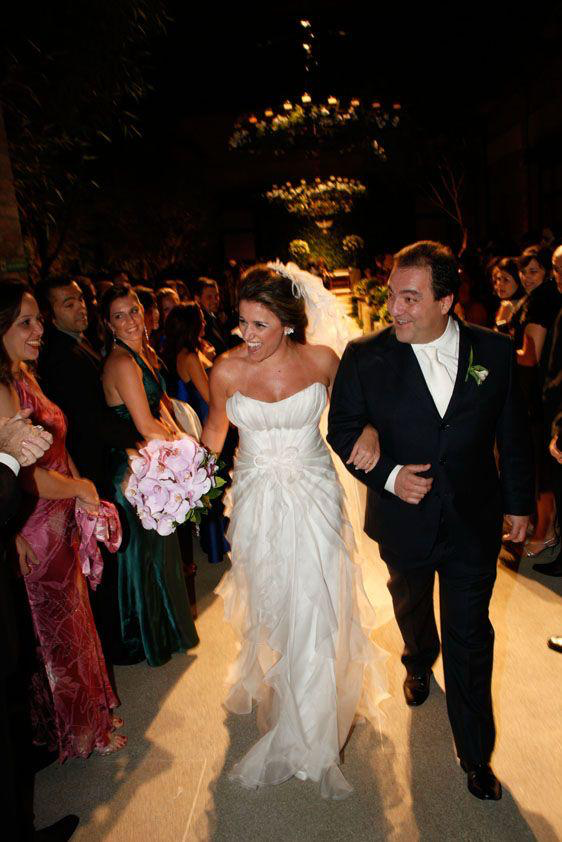
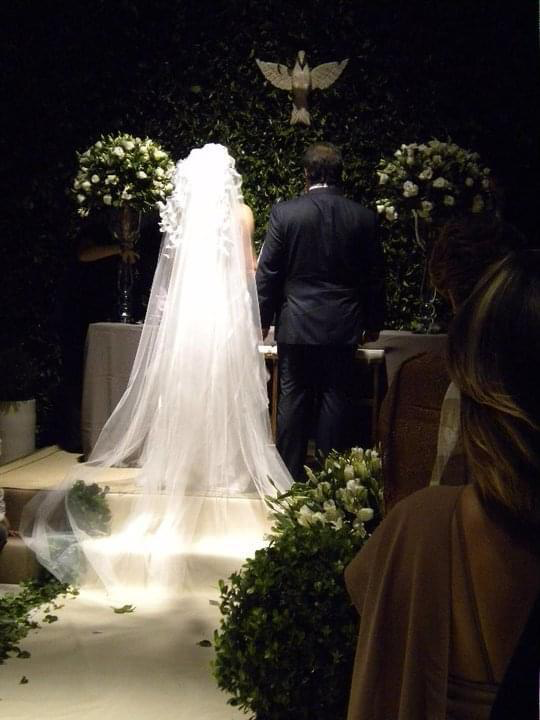
kkk

diff --git a/src/app/pages/alta-costura/artcouture-wearers.data.ts b/src/app/pages/alta-costura/artcouture-wearers.data.ts
@@ -98,6 +98,12 @@ export const ARTCOUTURE_WEARERS: ArtCoutureWearer[] = withCdnUrls([
         src: `${MEDIA}/sandra-machado-leis/familia.png`,
         alt: 'Sandra Machado Leis com a família nas bodas de ouro, vestido ArtCouture',
       },
+    ],
+  },
+  {
+    id: 'sandra-machado-leis-ombre',
+    name: 'Sandra Machado Leis',
+    shots: [
       {
         src: `${MEDIA}/sandra-machado-leis/ombro.png`,
         alt: 'Sandra Machado Leis, vestido ArtCouture ombré coral de um ombro só',
@@ -191,6 +197,10 @@ export const ARTCOUTURE_WEARERS: ArtCoutureWearer[] = withCdnUrls([
         alt: 'Ju Erhardt em três quartos, vestido ArtCouture off-white de babados',
       },
       {
+        src: `${MEDIA}/dra-tatianne/ju-cerimonia.png`,
+        alt: 'Ju Erhardt na cerimônia na igreja, vestido ArtCouture off-white de babados',
+      },
+      {
         src: `${MEDIA}/dra-tatianne/ju-costas.png`,
         alt: 'Ju Erhardt de costas, vestido ArtCouture off-white de babados',
       },
@@ -274,7 +284,7 @@ export const ARTCOUTURE_WEARERS: ArtCoutureWearer[] = withCdnUrls([
     shots: [
       {
         src: `${MEDIA}/isabella-marar-santoyo/01.png`,
-        alt: 'Isabella Marar Santoyo no corredor, vestido de noiva ArtCouture',
+        alt: 'Isabella Marar Santoyo de costas no altar, véu de noiva ArtCouture na cerimônia',
       },
       {
         src: `${MEDIA}/isabella-marar-santoyo/02.png`,

diff --git a/src/app/pages/landing/landing.scss b/src/app/pages/landing/landing.scss
@@ -24,22 +24,42 @@
   align-items: center;
   justify-content: center;
   text-align: center;
-  padding: 24px var(--lc-space-24);
+  padding: clamp(56px, 14vh, 88px) var(--lc-space-24) var(--lc-space-24);
   color: var(--lc-void);
-  background: rgb(255 255 255 / 22%);
+  background: none;
+
+  .hero__eyebrow,
+  .hero__title,
+  .hero__sub,
+  .hero__tag {
+    text-shadow:
+      0 0 18px rgb(255 255 255 / 95%),
+      0 0 36px rgb(255 255 255 / 85%),
+      0 0 56px rgb(255 255 255 / 65%),
+      0 1px 1px rgb(255 255 255 / 90%);
+  }
 }
 
 @media (min-width: 600px) {
   .hero__content {
-    padding: var(--lc-space-40);
-    background: rgb(255 255 255 / 28%);
+    padding: clamp(72px, 16vh, 112px) var(--lc-space-40) var(--lc-space-40);
+
+    .hero__eyebrow,
+    .hero__title,
+    .hero__sub,
+    .hero__tag {
+      text-shadow:
+        0 0 22px rgb(255 255 255 / 96%),
+        0 0 44px rgb(255 255 255 / 88%),
+        0 0 72px rgb(255 255 255 / 72%),
+        0 1px 2px rgb(255 255 255 / 92%);
+    }
   }
 }
 
 @media (min-width: 900px) {
   .hero__content {
-    padding: var(--lc-space-40);
-    background: rgb(255 255 255 / 22%);
+    padding: clamp(88px, 18vh, 128px) var(--lc-space-40) var(--lc-space-40);
   }
 }
 

diff --git a/src/app/pages/alta-costura/alta-costura.html b/src/app/pages/alta-costura/alta-costura.html
@@ -13,7 +13,7 @@
     </div>
   </div>
 
-  @for (wearer of wearers(); track wearer.name) {
+  @for (wearer of wearers(); track wearer.id) {
     <section class="ac-wearer" [attr.aria-labelledby]="wearer.id + '-name'">
       <header class="ac-wearer__head lc-container">
         <h2 class="ac-wearer__brand" [id]="wearer.id + '-name'">
